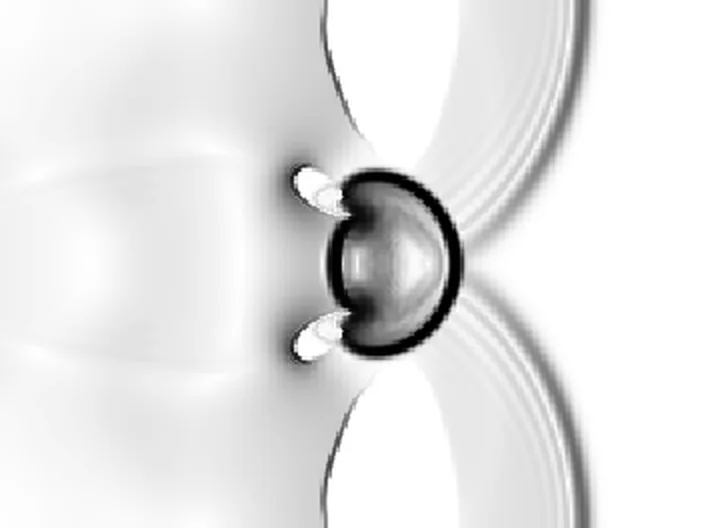
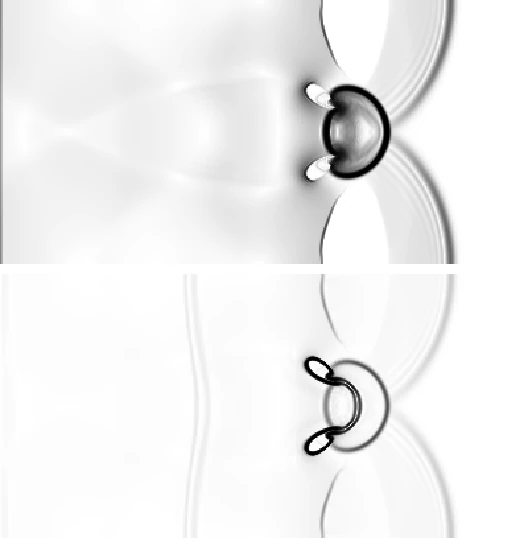
Add files via upload

diff --git a/index.html b/index.html
@@ -4,7 +4,7 @@
 <meta charset="UTF-8">
 <meta name="viewport" content="width=device-width, initial-scale=1, viewport-fit=cover">
 <title>Lumantis | Calcul CFD sous OpenFOAM, en renfort de vos équipes</title>
-<meta name="description" content="Ingénieur CFD indépendant (ISAE-ENSMA). Simulations d'écoulements et de transferts de chaleur sous OpenFOAM pour les bureaux d'études et les industriels : maillage, calcul, contrôles, rapport.">
+<meta name="description" content="Ingénieur CFD indépendant (ISAE-ENSMA). Simulations d'écoulements et de transferts de chaleur sous OpenFOAM pour les bureaux d'études et les industriels : maillage, calcul, contrôles, rapport. Réponse rapide.">
 <meta name="author" content="Raoutsi Gueddoura">
 <meta name="theme-color" content="#f4f6f8">
 <meta name="color-scheme" content="light">
@@ -607,6 +607,8 @@ strong { font-weight: 620; }
     background: #dfe5ec;
 }
 .projet-image img { width: 100%; height: 100%; object-fit: cover; }
+.projet-image.entier { background: #fff; }
+.projet-image.entier img { object-fit: contain; }
 .vues { display: flex; flex-wrap: wrap; gap: 6px; margin-top: 10px; }
 .vues button {
     padding: 5px 11px;
@@ -810,16 +812,16 @@ strong { font-weight: 620; }
     <section class="accueil" aria-labelledby="titre-accueil">
         <div class="conteneur">
             <h1 id="titre-accueil">Calcul CFD sous OpenFOAM, en renfort de vos équipes</h1>
-            <p class="chapeau">Ingénieur ISAE-ENSMA indépendant, je prends en charge vos simulations d'écoulements et de transferts de chaleur, du maillage au rapport. Pour les bureaux d'études et les industriels qui manquent de temps, pas de compétence.</p>
+            <p class="chapeau">Ingénieur ISAE-ENSMA indépendant, je prends en charge vos simulations d'écoulements et de transferts de chaleur, du maillage au rapport. Pour les bureaux d'études et les industriels qui veulent absorber un pic de charge, ou ajouter une compétence en simulation à leurs équipes.</p>
             <div class="actions">
                 <a class="bouton" href="#contact">Décrire votre besoin</a>
                 <a class="bouton bouton-clair" href="#demonstration">Voir l'étude de démonstration</a>
             </div>
-            <p class="precision">Basé à Montesson (78), j'interviens en Île-de-France et à distance. Réponse sous 48 h ouvrées.</p>
+            <p class="precision">Basé à Montesson (78), j'interviens en Île-de-France et à distance, et je réponds rapidement à chaque demande.</p>
 
             <figure class="sonde" id="sonde">
                 <div class="sonde-tete">
-                    <p class="sonde-titre">Coupe verticale d'un local de stockage<span>Étude de démonstration : 12 m de long, 4,5 m de haut, consigne de 22 ± 3 °C</span></p>
+                    <p class="sonde-titre">Un exemple : la coupe verticale d'un local de stockage<span>Tirée de l'étude de démonstration (cas fictif) : 12 m de long, 4,5 m de haut, consigne de 22 ± 3 °C</span></p>
                     <div class="saisons" role="group" aria-label="Saison affichée">
                         <button type="button" data-saison="ete" aria-pressed="true">Été</button>
                         <button type="button" data-saison="hiver" aria-pressed="false">Hiver</button>
@@ -906,10 +908,6 @@ strong { font-weight: 620; }
             </div>
             <dl class="domaines">
                 <div>
-                    <dt>Aéraulique et thermique de locaux</dt>
-                    <dd>Entrepôts, salles propres, confort, ventilation</dd>
-                </div>
-                <div>
                     <dt>Écoulements compressibles</dt>
                     <dd>Ondes de choc, détentes, mélanges de gaz</dd>
                 </div>
@@ -920,6 +918,10 @@ strong { font-weight: 620; }
                 <div>
                     <dt>Thermique et combustion</dt>
                     <dd>Transferts de chaleur, flammes, réacteurs</dd>
+                </div>
+                <div>
+                    <dt>Aéraulique et thermique de locaux</dt>
+                    <dd>Ventilation, confort, entrepôts, salles propres</dd>
                 </div>
             </dl>
         </div>
@@ -936,7 +938,7 @@ strong { font-weight: 620; }
         <div class="conteneur">
             <div class="section-tete">
                 <h2 id="titre-demo">Étude de démonstration</h2>
-                <p>Un local de stockage fictif, traité comme une vraie étude. Le cas est réduit et ses données sont illustratives ; la méthode et le livrable sont ceux d'une étude réelle.</p>
+                <p>Pour montrer à quoi ressemble un livrable, j'ai traité un cas fictif comme une vraie étude : la thermique d'un local de stockage. Le cas est réduit et ses données sont illustratives ; la démarche, les contrôles et le rapport sont ceux que j'applique à tout type d'écoulement.</p>
             </div>
             <div class="cas">
                 <dl class="fiche">
@@ -1034,23 +1036,23 @@ strong { font-weight: 620; }
         <div class="conteneur">
             <div class="section-tete">
                 <h2 id="titre-methode">Comment se déroule une étude</h2>
-                <p>Un calcul CFD dépend de ses hypothèses autant que du logiciel. Elles sont écrites dès le devis, et chaque résultat est contrôlé avant de vous être remis.</p>
+                <p>Un calcul CFD dépend de ses hypothèses autant que du logiciel. Elles sont écrites dès le devis, chaque résultat est contrôlé avant de vous être remis, et vous êtes tenu au courant de l'avancement tout au long de l'étude.</p>
             </div>
             <ol class="etapes">
                 <li>
                     <h3>Cadrage et devis</h3>
-                    <p>Vous décrivez le besoin en quelques lignes. Je reviens avec mes questions, puis un devis ferme : hypothèses, livrables, délai.</p>
-                    <span class="engagement">Réponse sous 48 h ouvrées</span>
+                    <p>Vous décrivez le besoin en quelques lignes. Je reviens vers vous avec mes questions, puis un devis ferme : hypothèses, livrables, délai.</p>
+                    <span class="engagement">Réponse rapide</span>
                 </li>
                 <li>
                     <h3>Données et modèle</h3>
-                    <p>Plans, relevés et conditions de fonctionnement deviennent une maquette numérique, maillée puis vérifiée.</p>
+                    <p>Géométrie, conditions de fonctionnement et mesures disponibles deviennent une maquette numérique, maillée puis vérifiée.</p>
                     <span class="engagement">Test de sensibilité au maillage</span>
                 </li>
                 <li>
                     <h3>Calcul et contrôles</h3>
                     <p>Calcul sous OpenFOAM, puis vérification de la convergence, des bilans et, quand elles existent, des mesures.</p>
-                    <span class="engagement">Bilans de masse et d'énergie bouclés</span>
+                    <span class="engagement">Convergence et bilans vérifiés</span>
                 </li>
                 <li>
                     <h3>Rapport et restitution</h3>
@@ -1117,8 +1119,8 @@ strong { font-weight: 620; }
                         </div>
                         <div class="vues" role="group" aria-label="Images du projet">
                             <button type="button" aria-pressed="true" data-src="stage/choc_bulle_helium.webp" data-alt="Interaction choc-bulle air/hélium : masse volumique et fraction massique d'air, la bulle s'enroule en deux tourbillons">Choc-bulle air/hélium</button>
-                            <button type="button" aria-pressed="false" data-src="stage/schlieren_helium.webp" data-alt="Schlieren numérique de masse volumique d'une bulle d'hélium traversée par un choc">Schlieren, hélium</button>
-                            <button type="button" aria-pressed="false" data-src="stage/schlieren_eau_air.webp" data-alt="Schlieren numérique de pression lors de l'effondrement d'une bulle d'air dans l'eau">Schlieren, eau et air</button>
+                            <button type="button" aria-pressed="false" data-src="stage/schlieren_helium.webp" data-entier data-alt="Schlieren numériques de pression (en haut) et de masse volumique (en bas) : un choc traverse une bulle d'hélium dans l'air">Schlieren, hélium</button>
+                            <button type="button" aria-pressed="false" data-src="stage/schlieren_eau_air.webp" data-entier data-alt="Schlieren numériques de pression (en haut) et de masse volumique (en bas) : effondrement d'une bulle d'air dans l'eau sous l'effet d'un choc">Schlieren, eau et air</button>
                         </div>
                     </div>
                     <div class="projet-texte">
@@ -1214,7 +1216,7 @@ strong { font-weight: 620; }
             </div>
             <div class="apropos">
                 <div class="apropos-texte">
-                    <p>Issu des classes préparatoires (MPSI/MP), je suis ingénieur diplômé de l'<strong>ISAE-ENSMA</strong>, avec un master spécialisé en combustion turbulente et diphasique.</p>
+                    <p>Je suis ingénieur diplômé de l'<strong>ISAE-ENSMA</strong>, avec un master spécialisé en combustion turbulente et diphasique.</p>
                     <p>Mon expérience s'est construite à l'Université d'Ottawa, sur des simulations OpenFOAM d'écoulements hydrauliques menées en parallèle de mesures LIF et PIV, puis au CEA, lors de mon stage de fin d'études, sur les méthodes numériques pour les écoulements compressibles multi-matériaux.</p>
                     <p>Lumantis est une activité individuelle : vous échangez avec la personne qui fait les calculs. Et je vous dis quand un sujet sort de mon périmètre, plutôt que de vous vendre une compétence que je n'ai pas.</p>
                 </div>
@@ -1247,11 +1249,11 @@ strong { font-weight: 620; }
             <div class="questions">
                 <details>
                     <summary>Quelles données faut-il fournir&nbsp;?</summary>
-                    <p>Des plans ou une maquette 3D, les dimensions des bouches et les débits, les températures de soufflage et de parois (un scan thermique convient), et les mesures dont vous disposez déjà. Le cadrage sert à faire la liste ensemble ; une hypothèse manquante est écrite noir sur blanc plutôt que devinée.</p>
+                    <p>La géométrie (CAO, plans ou maquette 3D), les conditions de fonctionnement (débits, pressions, températures, propriétés des fluides) et, si vous en avez, des mesures pour comparer. Le cadrage sert à faire la liste ensemble ; une donnée manquante devient une hypothèse écrite noir sur blanc, jamais devinée.</p>
                 </details>
                 <details>
                     <summary>Combien de temps dure une étude&nbsp;?</summary>
-                    <p>Quelques jours pour un renfort ponctuel. Pour une étude complète, en général de deux à huit semaines selon la taille du modèle et le nombre de scénarios. Le délai est écrit dans le devis.</p>
+                    <p>Je réponds rapidement à chaque demande. Le délai de réalisation dépend du volume de calcul et de ma charge de travail du moment ; il est fixé avec vous dans le devis. Comme je travaille en indépendant, je peux m'organiser pour aller vite, et je vous tiens au courant de l'avancement tout au long de l'étude.</p>
                 </details>
                 <details>
                     <summary>Pourquoi OpenFOAM&nbsp;?</summary>
@@ -1276,7 +1278,7 @@ strong { font-weight: 620; }
         <div class="conteneur contact">
             <div class="contact-texte">
                 <h2 id="titre-contact">Parlons de votre projet</h2>
-                <p>Un dossier en attente faute de temps, un pic de charge, une question d'écoulement ou de thermique ? Décrivez le besoin en quelques lignes : je réponds sous 48 h ouvrées, y compris pour vous dire que ce n'est pas dans mon périmètre.</p>
+                <p>Un dossier en attente, un pic de charge, une compétence en simulation à ajouter à votre équipe ? Décrivez le besoin en quelques lignes : je vous réponds rapidement, y compris pour vous dire si le sujet sort de mon périmètre.</p>
                 <div class="actions">
                     <a class="bouton" href="mailto:contact.lumantis@gmail.com?subject=Demande%20d%27%C3%A9tude%20CFD&amp;body=Bonjour%2C%0D%0A%0D%0AContexte%20%28installation%2C%20produit%2C%20local%29%20%3A%0D%0A%0D%0AObjectif%20de%20l%27%C3%A9tude%20%3A%0D%0A%0D%0ADonn%C3%A9es%20disponibles%20%28plans%2C%20mesures%2C%20conditions%20de%20fonctionnement%29%20%3A%0D%0A%0D%0AD%C3%A9lai%20souhait%C3%A9%20%3A%0D%0A%0D%0A">Écrire un e-mail</a>
                 </div>
@@ -1292,8 +1294,8 @@ strong { font-weight: 620; }
                     <dd>Île-de-France et à distance</dd>
                 </div>
                 <div>
-                    <dt>Délai de réponse</dt>
-                    <dd>Sous 48 h ouvrées</dd>
+                    <dt>Réponse</dt>
+                    <dd>Rapide, à chaque demande</dd>
                 </div>
             </dl>
             <p class="invisible" role="status" aria-live="polite" id="copieStatut"></p>
@@ -1440,6 +1442,7 @@ strong { font-weight: 620; }
             b.addEventListener('click', function () {
                 image.src = b.getAttribute('data-src');
                 image.alt = b.getAttribute('data-alt');
+                image.parentNode.classList.toggle('entier', b.hasAttribute('data-entier'));
                 boutons.forEach(function (x) { x.setAttribute('aria-pressed', String(x === b)); });
             });
         });
